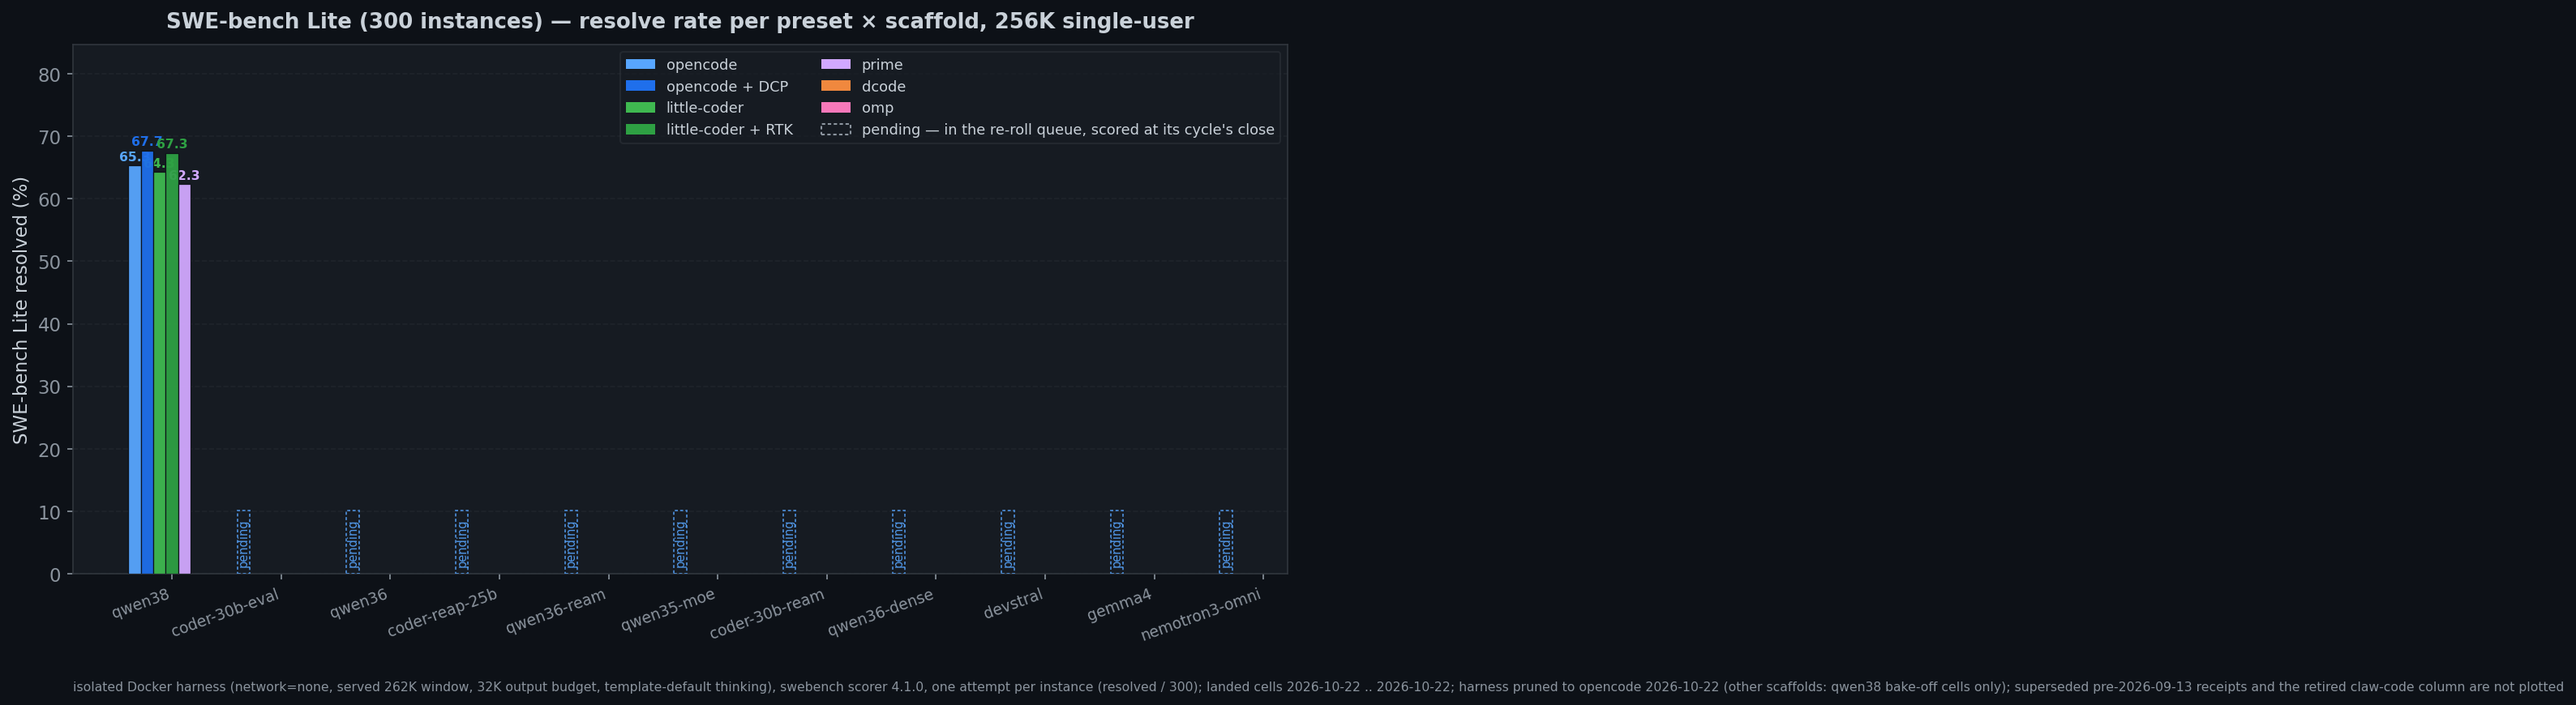
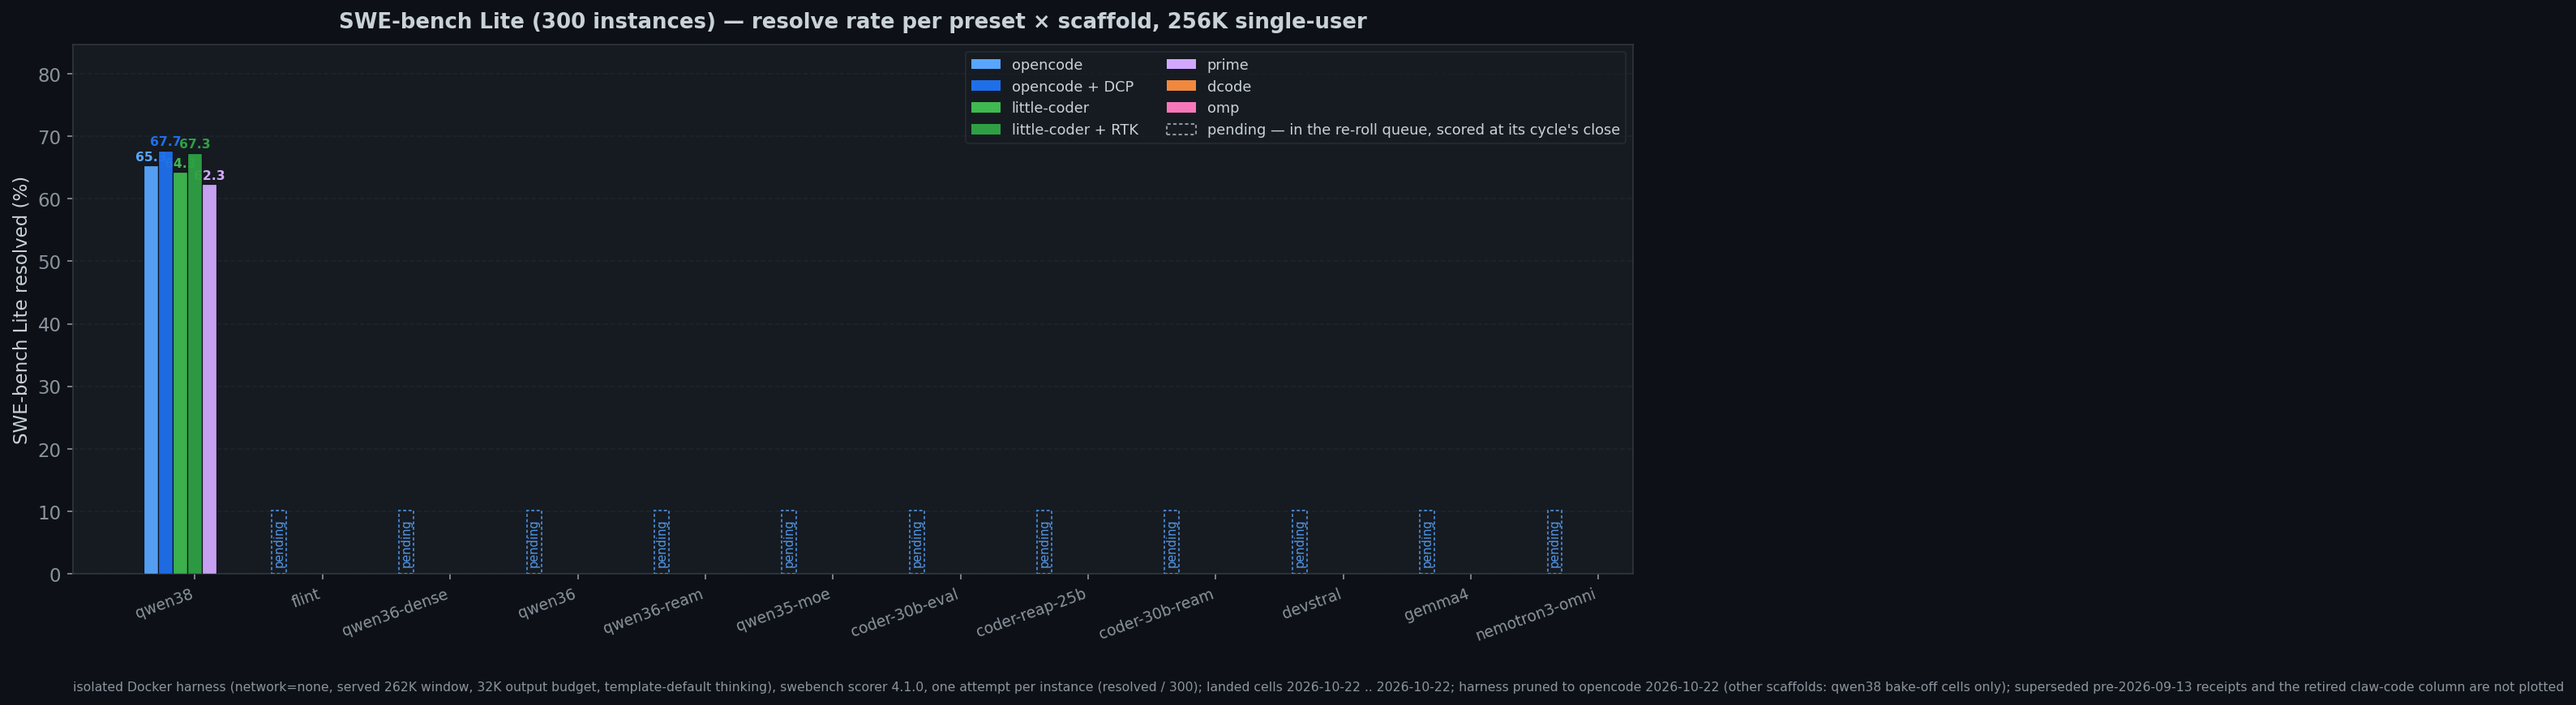
Flint: Model Support / HF zoo / VRAM table rows + decode-bar chart; harness defaults pruned to opencode (run_model_cycle SCAFFOLDS, run_all_cycles QUEUE flint-first); attnbf16 scales audit 0/36,243
- README: Flint rows in the three model tables (262K, 166 / 36 @262K, 589K full / 29K SWA pool, triton+bf16 KV, TP=2 validated, natural-haystack needle)
- generate_charts.py: flint registered (decode bars pick up benchmarks/regression/flint-2026-10-22.json; bake-off chart shows the pruned queue order)
- run_model_cycle.sh default SCAFFOLDS=opencode, run_all_cycles.sh default QUEUE mirrors systemd/swebench-bakeoff.override.conf (both inode-replaced under the paused queue)

Claude-Session: https://claude.ai/code/session_019JtCL6HrXSrD3iHQK41ZX6

diff --git a/scripts/bench/generate_charts.py b/scripts/bench/generate_charts.py
@@ -44,6 +44,7 @@ MODELS = {
     "qwen3.6-ream":        {"preset": "qwen36-ream",     "label": "Qwen3.6-REAM-A3B AWQ (MoE, think)", "color": "#79c0ff"},
     "qwen3.6-27b":         {"preset": "qwen36-dense",    "label": "Qwen3.6-27B AWQ (dense, think)",    "color": "#1f6feb"},
     "qwen38":              {"preset": "qwen38",          "label": "Qwen3.8-27B AWQ (dense, think)",    "color": "#388bfd"},
+    "flint":               {"preset": "flint",           "label": "Flint 40B-A2.5B AWQ (MoE, SWA+NoPE, think)", "color": "#f778ba"},
     "qwen3.5-28b-moe":     {"preset": "qwen35-moe",      "label": "Qwen3.5-28B REAP AWQ (MoE, think)", "color": "#a5d6ff"},
     "qwen3-30b-ream":      {"preset": "qwen3-ream",      "label": "Qwen3-30B-REAM AWQ (MoE)",          "color": "#3fb950"},
     "nemotron3-omni":      {"preset": "nemotron3-omni",  "label": "Nemotron-3-Nano-Omni AWQ (Mamba2-hybrid AVLM, int4)", "color": "#39c5cf"},

diff --git a/README.md b/README.md
@@ -78,6 +78,7 @@ Every deep point is **server-verified at its labeled depth** (`actual_input_toke
 | **Gemma 4 12B Unified AWQ** | Omni, encoder-free | **262K** ✓ | 100 (**17.5 @255K**) | `gemma4-12b` | [`mattbucci/gemma-4-12B-AWQ`](https://huggingface.co/mattbucci/gemma-4-12B-AWQ). In-house int4 RTN-from-QAT. MMLU 77 / HE 93 / **tool-use 1.0 → 258K true tokens**, **5/5 omni** (vision + video ✓; gemma4_unified is native since transformers 5.12.1). 565K-token full pool via `--swa-full-tokens-ratio 0.0625`. |
 | **Qwen3.6-27B Dense AWQ** | Dense + DeltaNet (VL) | **262K** (657K KV) | 69 (**47 @255K**) | `qwen36-dense` | [`mattbucci/Qwen3.6-27B-AWQ`](https://huggingface.co/mattbucci/Qwen3.6-27B-AWQ) (R9700 self-cal). |
 | **Qwen3.8-27B AWQ** | Dense + DeltaNet (VL **+video**) | **262K** (652K KV @ M=1; 307K under the DSpark draft) | 71 (**48 @262K**) · `SPEC_DECODE=1` **125 / 90 @49K / 75 @130K / 58 @250K** | `qwen38` | [`mattbucci/Qwen3.8-27B-AWQ`](https://huggingface.co/mattbucci/Qwen3.8-27B-AWQ) (3090 self-cal 2026-08-18, GPTQ `thinking_vision_video`). MMLU **0.93** · HE **0.96** · needle **1.0** at server-verified 250,077 actual · caps **5/5** incl. video (LAB 0.16 — inside the DeltaNet-family spread 0.11–0.32 on a 56-question probe; watch item). 48 GDN + 16 full-attn layers; ships MTP weights (inert — main loader skips them). ⚠ `--max-running 1` is load-bearing: at 8 the KV pool collapses 652K→32K (18.7 GB ship: untied 248,320 vocab + BF16 lm_head, and DeltaNet state replicates per slot). |
+| **Flint 40B-A2.5B AWQ** | MoE A2.5B (256 experts top-6 + shared expert; 35 SWA-513 + 14 **NoPE** full-attention layers, learned sinks; thinking + tools, text-only) | **262K** ✓ (589K full / 29K SWA pool) | 166 (115 @32K, **36 @262K**) | `flint` | `mattbucci/Flint-AWQ` (3090 data-free per-group MSE-clipped RTN g64, 2026-10-22 — no calibration path exists: transformers has no Flint modeling file; HF upload lands after the attention-in-BF16 A/B). Needle: natural-text haystack **found** greedy at 131K and 243.5K, both depths — the stock repeated-sentence filler is a NoPE attractor and a known-bad cell for this model ([receipt](benchmarks/quality/flint/needle-haystack-discriminator-2026-10-22.md)); **TP=2 validated against TP=1** ([receipt](benchmarks/quality/flint/tp-check-2026-10-22.md)). Triton attention only on Ampere (sinks + `SWAKVPool`), bf16 KV, MoE runner `auto` (Marlin). Model code: `plugins/flint_sglang` (vendor `flint_sglang` 0.1.4 ported to v0.5.22). |
 | **Devstral-Small-2-24B AWQ** | Dense (VL) | **262K** ✓ (339K pool, patch 062) | 88 (52 @128K, **36 @262K**) | `devstral` | [`mattbucci/Devstral-Small-2-24B-AWQ`](https://huggingface.co/mattbucci/Devstral-Small-2-24B-AWQ). The canonical Devstral; built from [`mistralai/Devstral-Small-2-24B-Instruct-2512`](https://huggingface.co/mistralai/Devstral-Small-2-24B-Instruct-2512). FP8→BF16→GPTQ+tool-cal→AWQ. KV 202K → **339K on v0.5.18+062** (the loader-garbage fix recovered ~5.3 GB/rank): true 256K with headroom. |
 | **Qwen3-VL-32B Instruct AWQ** | Dense (VL) | **131K** (model-card cap) | 63 (**35 @127K**) | `qwen3-vl-32b` | [`mattbucci/Qwen3-VL-32B-AWQ`](https://huggingface.co/mattbucci/Qwen3-VL-32B-AWQ) (R9700). 63→45→35 tok/s @ 1K/64K/127K. |
 | Gemma 4 21B REAP AWQ | MoE (VL) | **262K** ✓ (653K pool) | 81 (**24 @255K**) | `gemma4-21b-reap` | [`mattbucci/gemma-4-21B-REAP-AWQ`](https://huggingface.co/mattbucci/gemma-4-21B-REAP-AWQ). Cerebras-style expert prune of the 26B parent; same Gemma 4 serving flags (graphs ON + `--swa-full-tokens-ratio 0.0625` → 652K pool); tool-use 1.0/1.0 on the standard ladder. ⚠ HumanEval 0% (REAP prune lost coding — Quality Evals below): vision/chat ship, not code. |
@@ -96,6 +97,7 @@ Every `mattbucci/*-AWQ` row is built end-to-end from the linked upstream BF16 te
 | Qwen3.6-REAM-A3B AWQ | [mattbucci/Qwen3.6-REAM-A3B-AWQ](https://huggingface.co/mattbucci/Qwen3.6-REAM-A3B-AWQ) (native) · [mattbucci/Qwen3.6-REAM-A3B-AWQ-CT](https://huggingface.co/mattbucci/Qwen3.6-REAM-A3B-AWQ-CT) | [Qwen/Qwen3.6-35B-A3B](https://huggingface.co/Qwen/Qwen3.6-35B-A3B) (Samsung SAIL `merge.py`, 256→192 experts) |
 | Qwen3.6-27B Dense AWQ | [mattbucci/Qwen3.6-27B-AWQ](https://huggingface.co/mattbucci/Qwen3.6-27B-AWQ) (native) · [mattbucci/Qwen3.6-27B-AWQ-CT](https://huggingface.co/mattbucci/Qwen3.6-27B-AWQ-CT) | [Qwen/Qwen3.6-27B](https://huggingface.co/Qwen/Qwen3.6-27B) (R9700 self-cal) |
 | Qwen3.8-27B AWQ | [mattbucci/Qwen3.8-27B-AWQ](https://huggingface.co/mattbucci/Qwen3.8-27B-AWQ) | [Qwen/Qwen3.8-27B](https://huggingface.co/Qwen/Qwen3.8-27B) (3090 self-cal, `thinking_vision_video` recipe) |
+| Flint AWQ | [mattbucci/Flint-AWQ](https://huggingface.co/mattbucci/Flint-AWQ) (upload pending the attention-in-BF16 A/B) | [RecursiveSI/flint](https://huggingface.co/RecursiveSI/flint) (3090 data-free per-group MSE-clipped RTN, g64, integer zeros — `scripts/quantize/quantize_flint_rtn_awq.py`; the vendor MLX int4 has a free per-group bias and is not AWQ-representable) |
 | Qwen3-30B-Instruct-2507 REAM AWQ | [mattbucci/Qwen3-30B-Instruct-2507-REAM-AWQ](https://huggingface.co/mattbucci/Qwen3-30B-Instruct-2507-REAM-AWQ) | [Qwen/Qwen3-30B-A3B-Instruct-2507](https://huggingface.co/Qwen/Qwen3-30B-A3B-Instruct-2507) (Samsung SAIL `merge.py`, 128→96 experts) |
 | Qwen3-Coder-30B-A3B AWQ | [mattbucci/Qwen3-Coder-30B-A3B-AWQ](https://huggingface.co/mattbucci/Qwen3-Coder-30B-A3B-AWQ) | [Qwen/Qwen3-Coder-30B-A3B-Instruct](https://huggingface.co/Qwen/Qwen3-Coder-30B-A3B-Instruct) |
 | Qwen3-Coder-30B-A3B-REAM AWQ | [mattbucci/Qwen3-Coder-30B-A3B-REAM-AWQ](https://huggingface.co/mattbucci/Qwen3-Coder-30B-A3B-REAM-AWQ) | [Qwen/Qwen3-Coder-30B-A3B-Instruct](https://huggingface.co/Qwen/Qwen3-Coder-30B-A3B-Instruct) (Samsung SAIL `merge.py`, 128→96 experts) |
@@ -142,6 +144,7 @@ TP=2, 48 GB total. **"Max context" is the real KV-pool capacity** (`max_total_nu
 | Qwen3-Coder-30B-A3B-REAP AWQ | 6.5 GB | 72 KB | 262K |
 | Qwen3.6-27B Dense AWQ | 8.8 GB (measured; sharded) | 24 KB | 262K (657K pool) |
 | Qwen3.8-27B AWQ | ~9.4 GB (18.7 GB ship) | 24 KB | 262K (652K pool @ M=1) |
+| Flint 40B-A2.5B AWQ | 10.6 GB | 28 KB (14 full-attn layers) + 70 KB over a 513-token window (35 SWA layers) | 262K (589K full / 29K SWA pool, MEM 0.85) |
 | Devstral-Small-2-24B AWQ | 7.0 GB | ~40 KB (fp8 KV) | **339K** (MEM 0.90, patch 062) |
 | Gemma 4 26B A4B MoE AWQ | 6.5 GB | ~12 KB (SWA) | **652K full / 41K swa** (262K ✓ @ ratio 0.0625) |
 | Gemma 4 21B REAP AWQ | ~5 GB | ~12 KB (SWA) | **653K full / 41K swa** (262K ✓ @ ratio 0.0625) |
